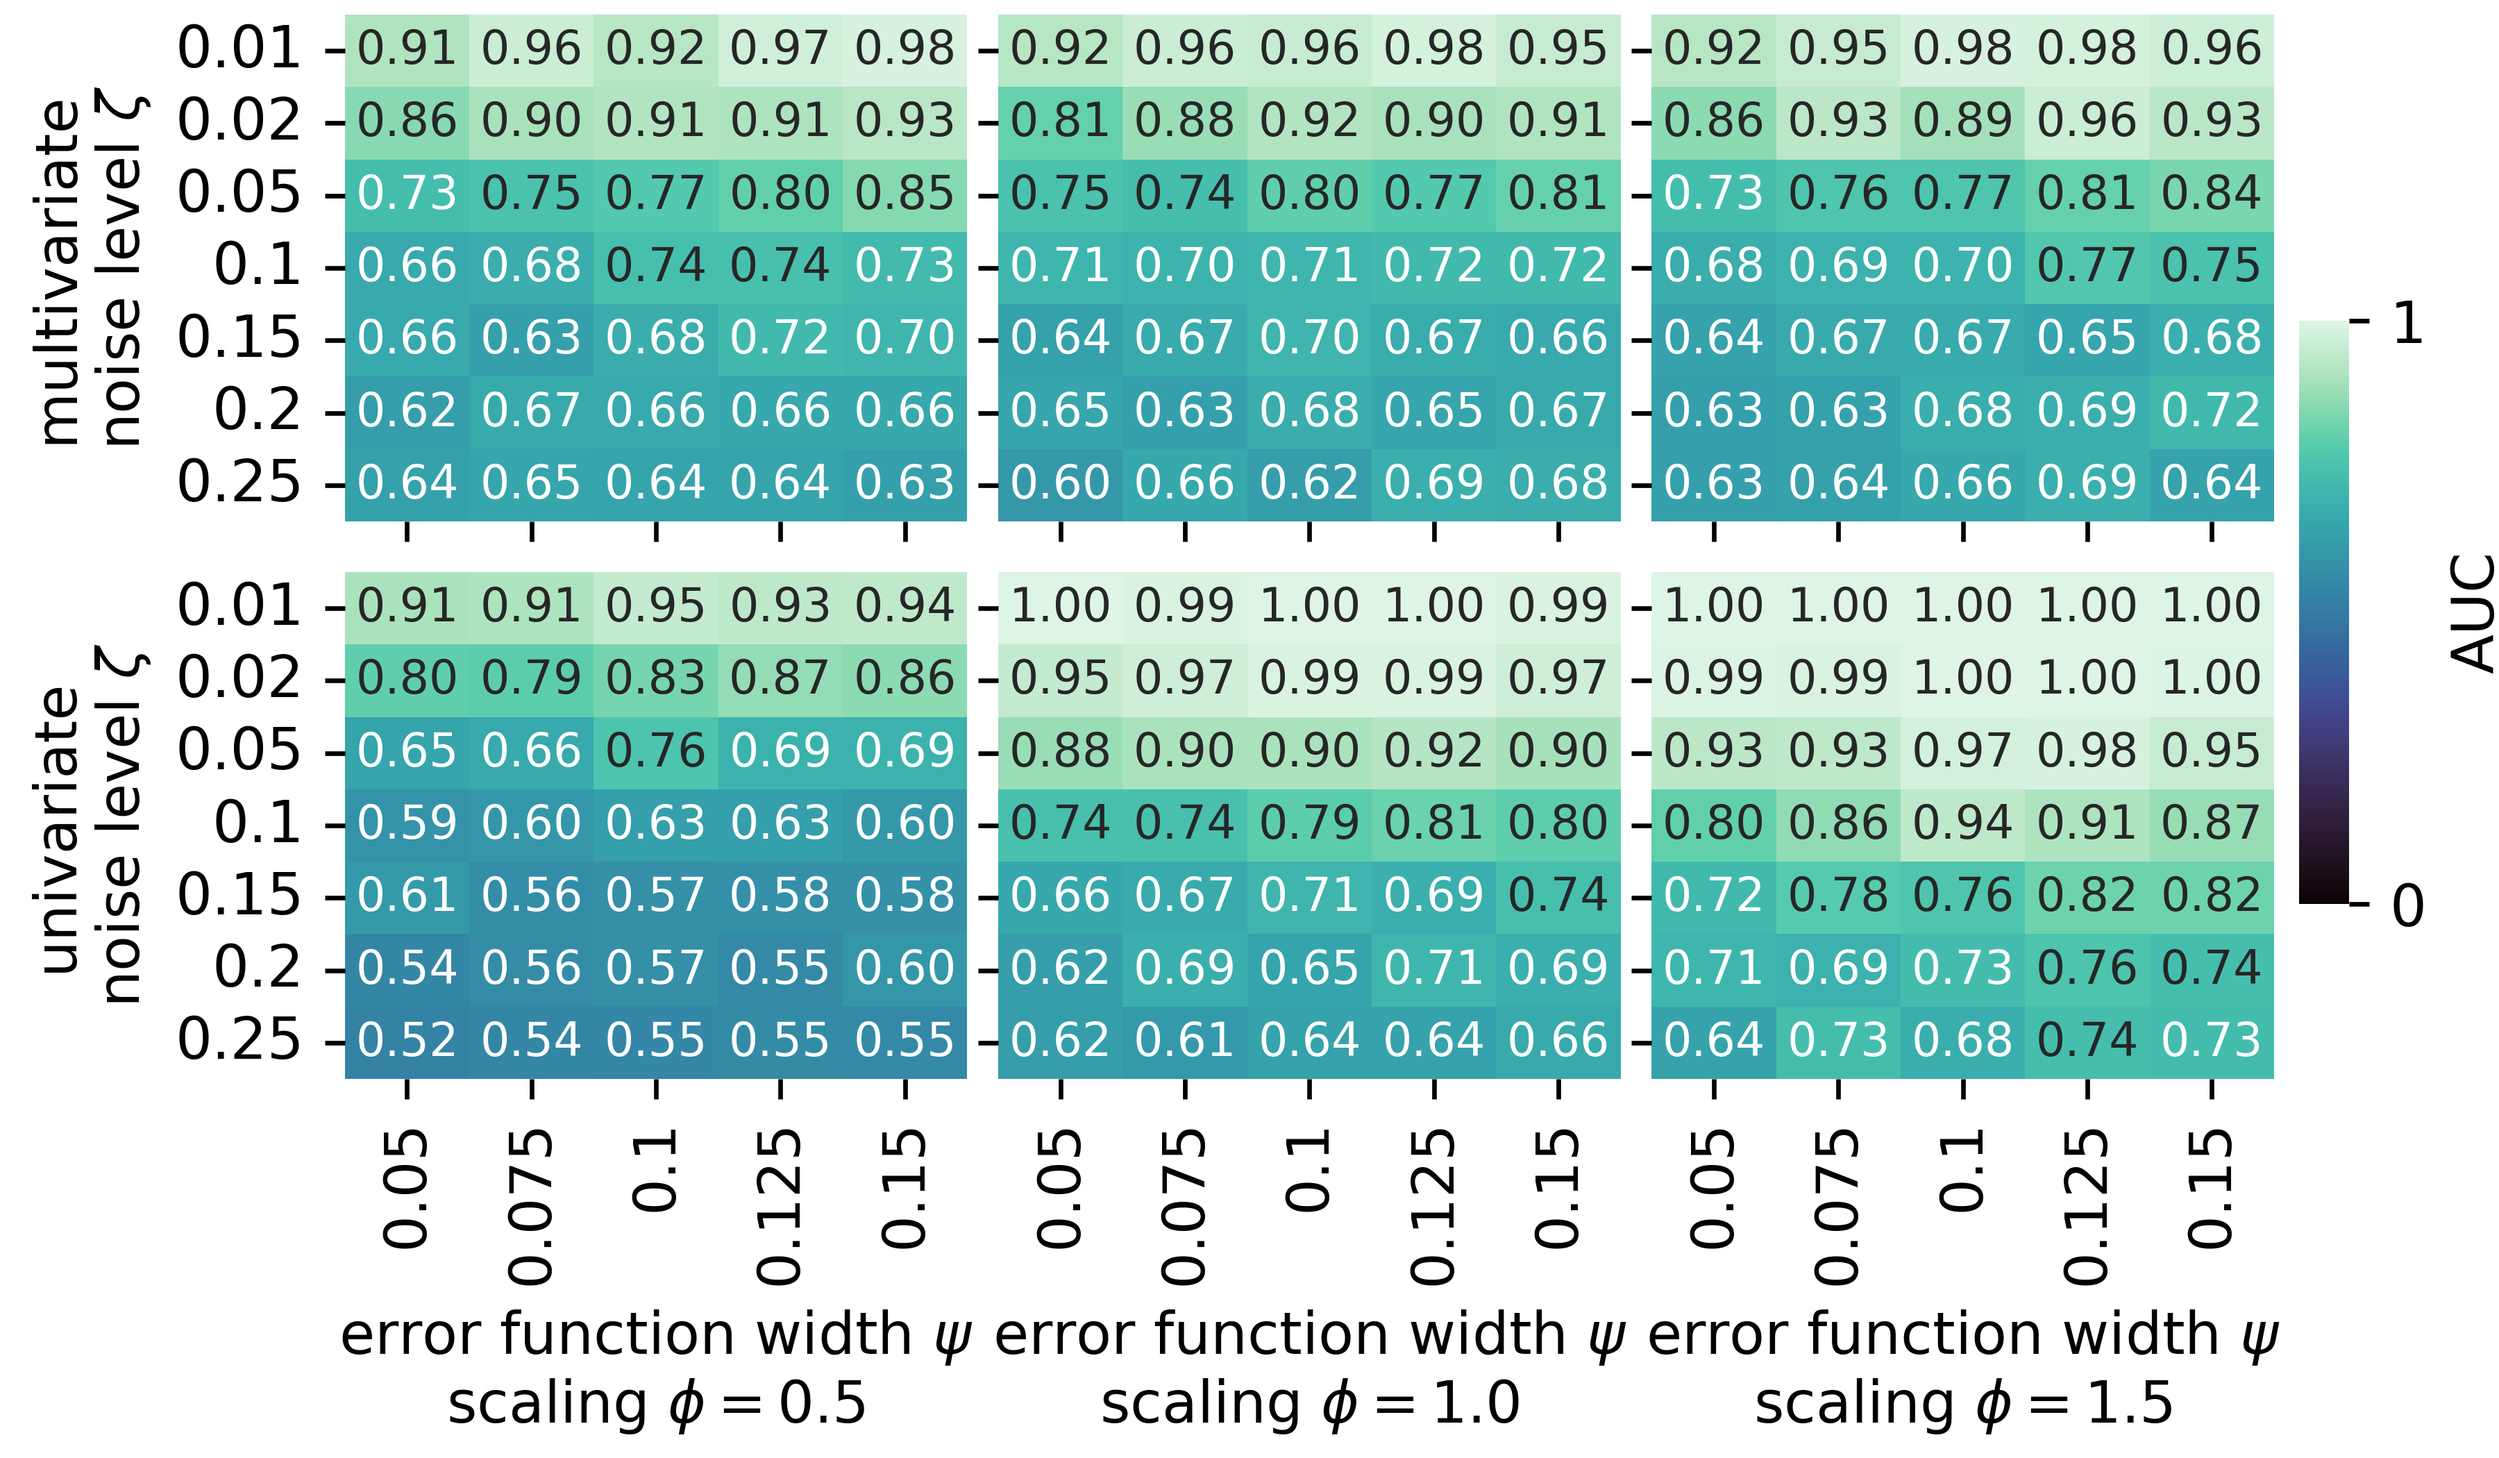
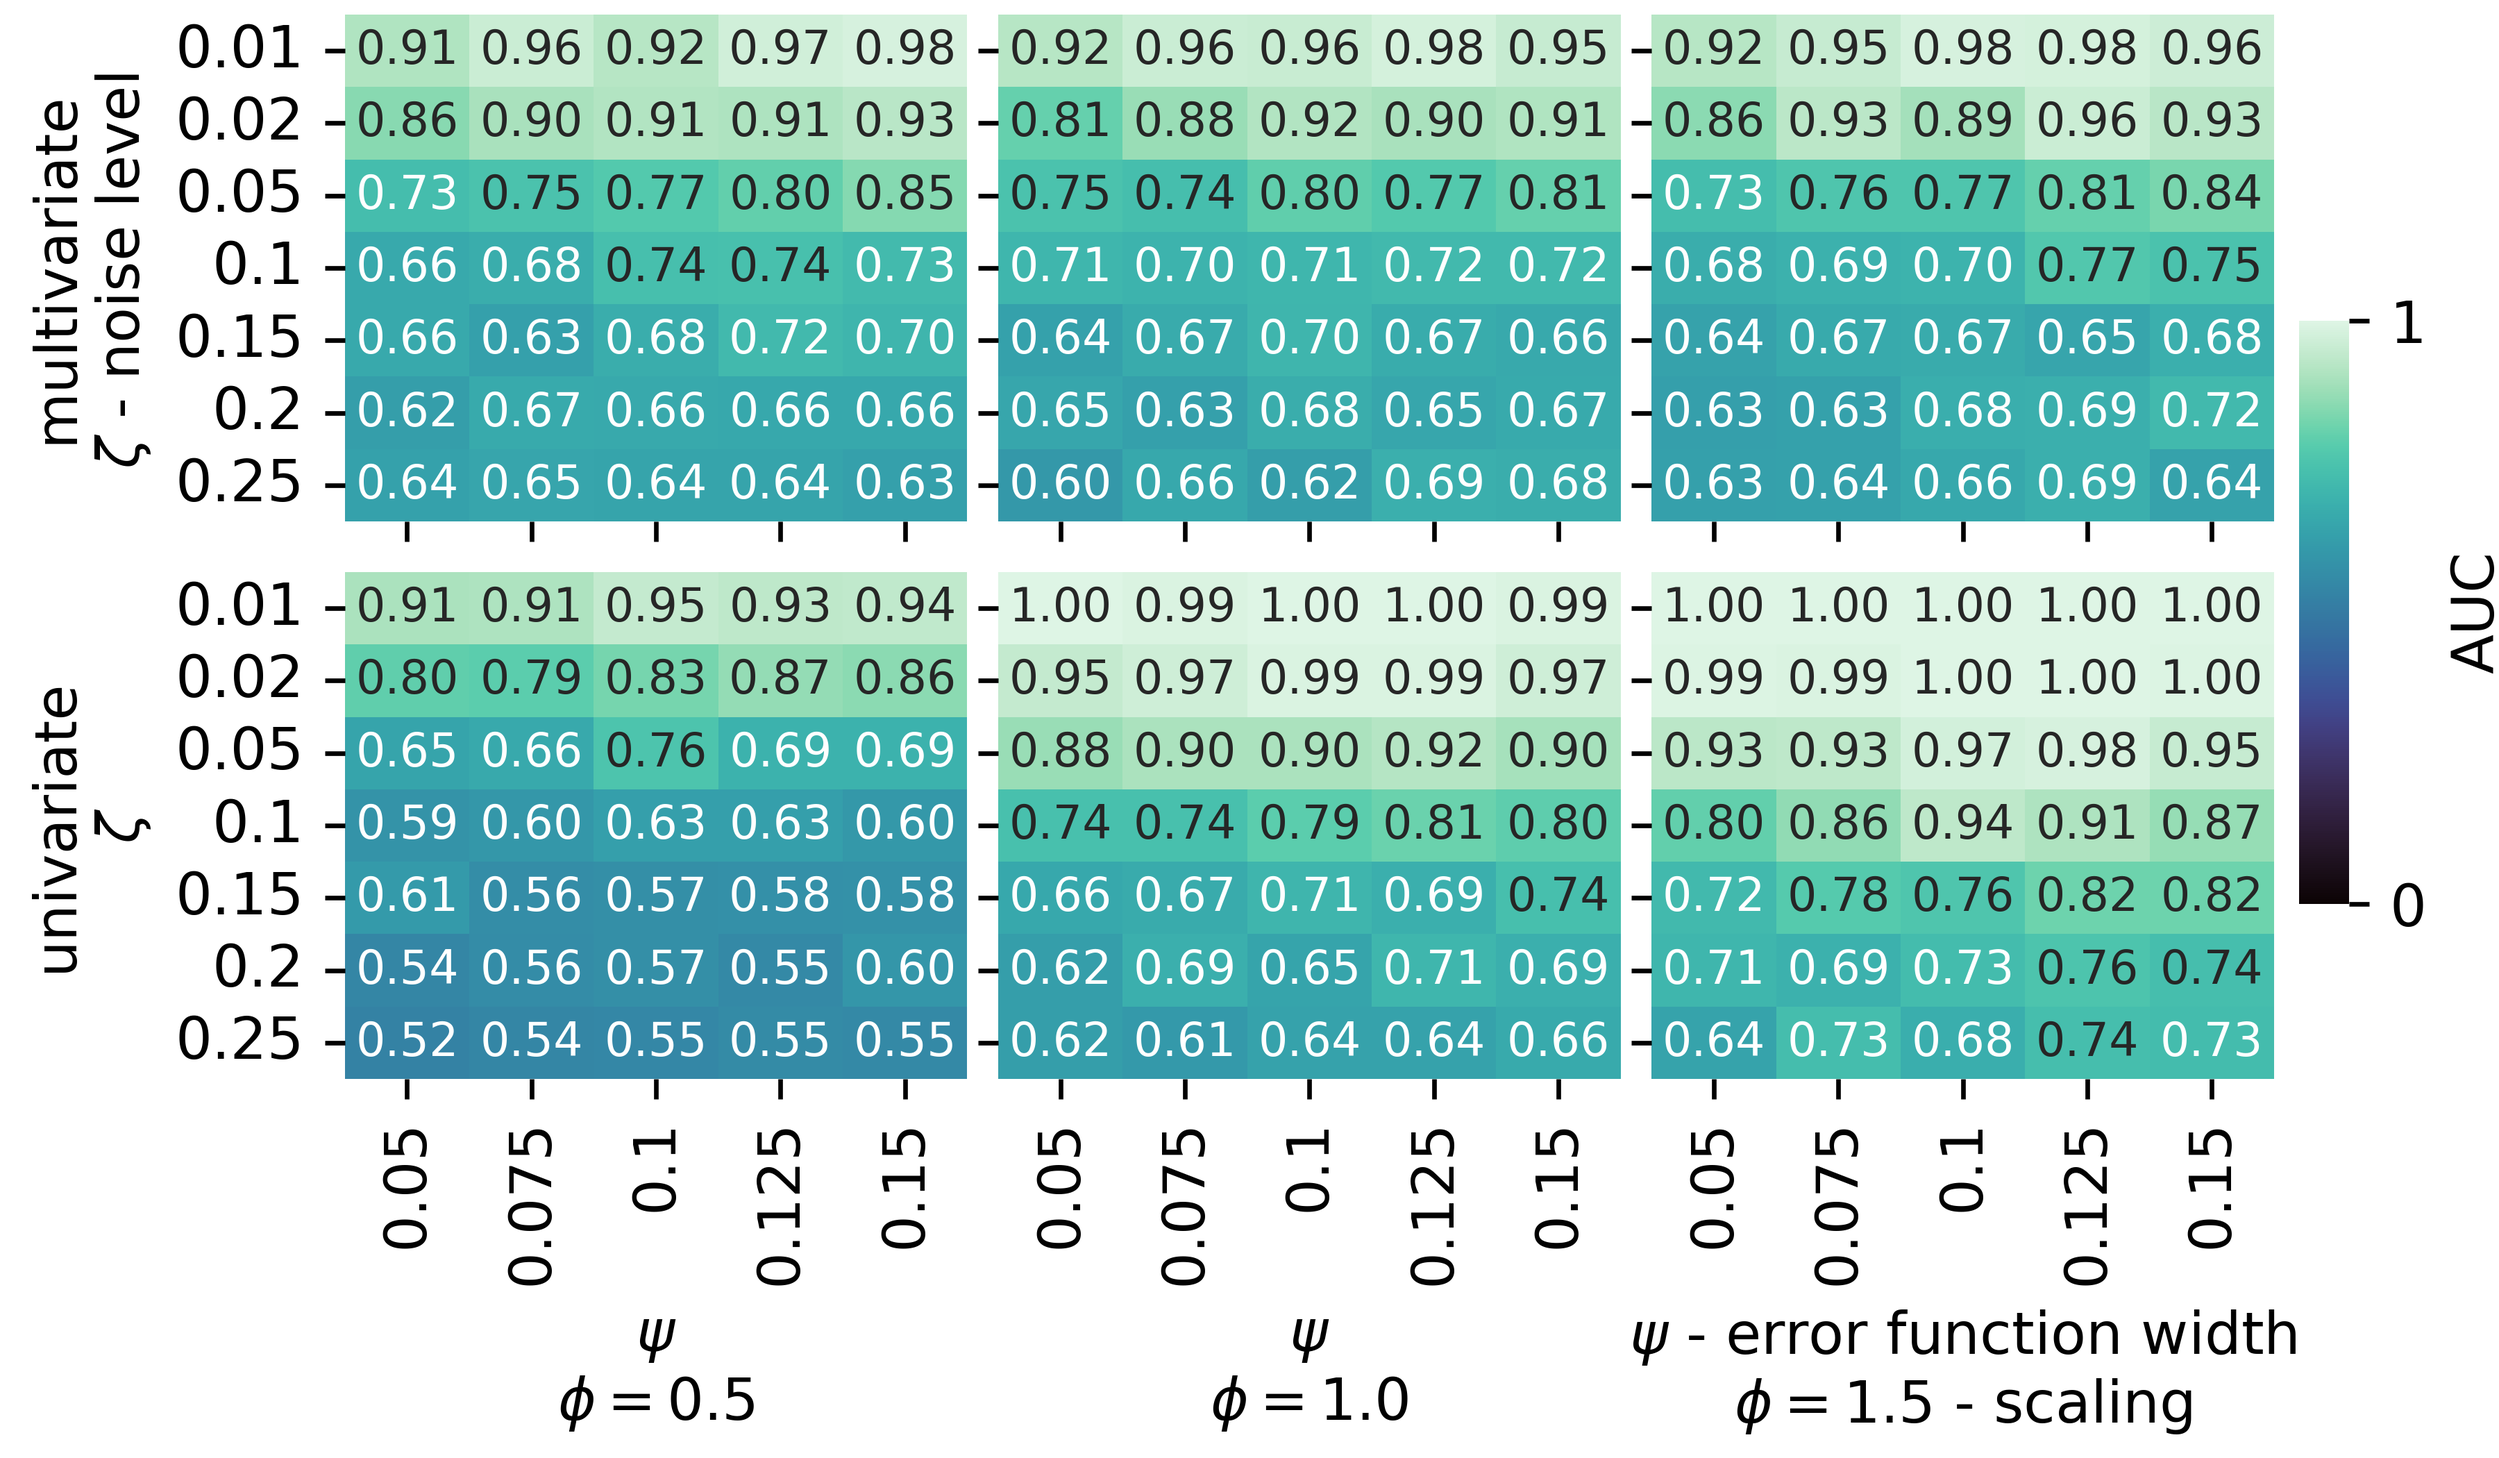
update greek symbols in figures

diff --git a/general_visualizations/8-AUC-paper.py b/general_visualizations/8-AUC-paper.py
@@ -43,9 +43,16 @@ for (result_figure, results) in combi:
       ax[colIndex].set_xlabel("")
       ax[colIndex].set_ylabel("")
       if((rowIndex == 1)):
-        ax[colIndex].set_xlabel(f'error function width $\psi$\nscaling $\phi = {scaling}$')
+        ax[colIndex].set_xlabel(f'$\psi$\n$\phi = {scaling}$')
+        if(colIndex == 2):
+          ax[colIndex].set_xlabel(f'$\psi$ - error function width\n$\phi = {scaling}$ - scaling')
+
+
       if(colIndex == 0):
-        ax[colIndex].set_ylabel(f'{text}\nnoise level $\zeta$')
+        ax[colIndex].set_ylabel(f'{text}\n$\zeta$')
+        if((rowIndex == 0)):
+          ax[colIndex].set_ylabel(f'{text}\n$\zeta$ - noise level ')
+
 
 
       colIndex = colIndex + 1

diff --git a/general_visualizations/3-visualize-gridsearch.py b/general_visualizations/3-visualize-gridsearch.py
@@ -96,14 +96,18 @@ for (problemtype,df) in problemTypes:
 
 
     if(axisIndex == 1):
-      ax[col].set_xlabel(f'{ax[col].get_xlabel()}\nAlpha: {Alpha}')
+      ax[col].set_xlabel(f'd\n$\\alpha = {Alpha}$')
+      if(col == 2):
+        ax[col].set_xlabel(f'd - Degree\n$\\alpha = {Alpha}$')
+
+    
     else:
       ax[col].set_xlabel(f'')
 
     if(col > 0):
       ax[col].set_ylabel("")
     else:
-      ax[col].set_ylabel(f'{problemtype}\n{ax[col].get_ylabel()}')
+      ax[col].set_ylabel(f'{problemtype}\n$\lambda$')
 
     col = col+1
 
